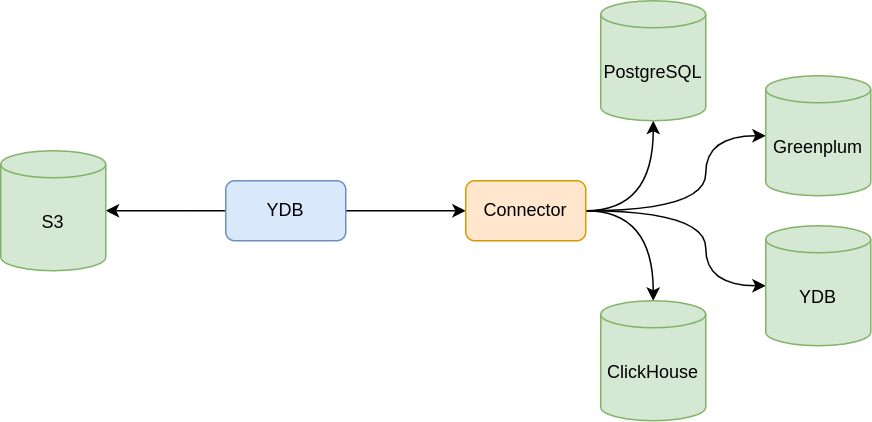
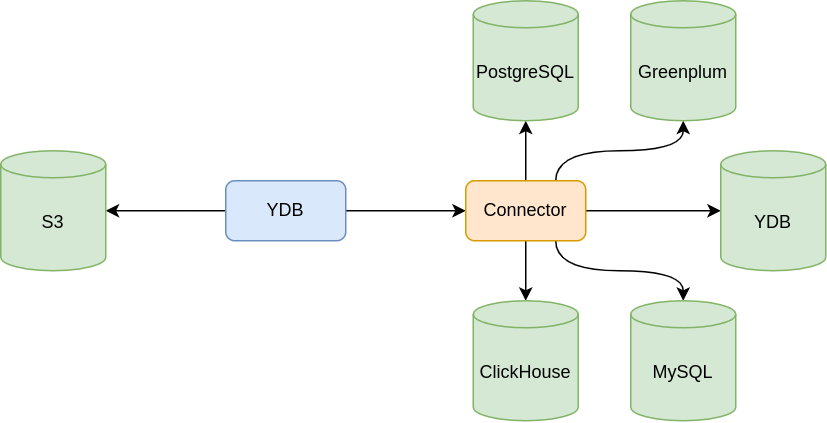
YDB FQ: docs for MySQL as an external datasource (#6737)

diff --git a/ydb/docs/ru/core/concepts/federated_query/mysql.md b/ydb/docs/ru/core/concepts/federated_query/mysql.md
@@ -1,0 +1,81 @@
+# Работа с базами данных MySQL
+
+В этом разделе описана основная информация про работу с внешней базой данных [MySQL](https://www.mysql.com/).
+
+Для работы с внешней базой данных MySQL необходимо выполнить следующие шаги:
+1. Создать [секрет](../datamodel/secrets.md), содержащий пароль для подключения к базе данных.
+    ```sql
+    CREATE OBJECT mysql_datasource_user_password (TYPE SECRET) WITH (value = "<password>");
+    ```
+1. Создать [внешний источник данных](../datamodel/external_data_source.md), описывающий определённую базу данных MySQL. Параметр `LOCATION` содержит сетевой адрес экземпляра MySQL, к которому осуществляется подключение. В `DATABASE_NAME` указывается имя базы данных (например, `mysql`). Для аутентификации во внешнюю базу используются значения параметров `LOGIN` и `PASSWORD_SECRET_NAME`. Включить шифрование соединений к внешней базе данных можно с помощью параметра `USE_TLS="TRUE"`.
+    ```sql
+    CREATE EXTERNAL DATA SOURCE mysql_datasource WITH (
+        SOURCE_TYPE="MySQL",
+        LOCATION="<host>:<port>",
+        DATABASE_NAME="<database>",
+        AUTH_METHOD="BASIC",
+        LOGIN="user",
+        PASSWORD_SECRET_NAME="mysql_datasource_user_password",
+        USE_TLS="TRUE"
+    );
+    ```
+1. {% include [!](_includes/connector_deployment.md) %}
+1. [Выполнить запрос](#query) к базе данных.
+
+## Синтаксис запросов { #query }
+Для работы с MySQL используется следующая форма SQL-запроса:
+
+```sql
+SELECT * FROM mysql_datasource.<table_name>
+```
+
+где:
+- `mysql_datasource` - идентификатор внешнего источника данных;
+- `<table_name>` - имя таблицы внутри внешнего источника данных.
+
+## Ограничения
+
+При работе с кластерами MySQL существует ряд ограничений:
+
+1. {% include [!](_includes/supported_requests.md) %}
+1. {% include [!](_includes/datetime_limits.md) %}
+1. {% include [!](_includes/predicate_pushdown.md) %}
+
+## Поддерживаемые типы данных
+
+В базе данных MySQL признак опциональности значений колонки (разрешено или запрещено колонке содержать значения `NULL`) не является частью системы типов данных. Ограничение (constraint) `NOT NULL` для любой колонки любой таблицы хранится в виде значения столбца `IS_NULLABLE` системной таблицы [INFORMATION_SCHEMA.COLUMNS](https://dev.mysql.com/doc/refman/8.4/en/information-schema-columns-table.html), то есть на уровне метаданных таблицы. Следовательно, все базовые типы MySQL по умолчанию могут содержать значения `NULL`, и в системе типов {{ ydb-full-name }} они должны отображаться в [опциональные](https://ydb.tech/docs/ru/yql/reference/types/optional) типы.
+
+Ниже приведена таблица соответствия типов MySQL и {{ ydb-short-name }}. Все остальные типы данных, за исключением перечисленных, не поддерживаются.
+
+|Тип данных MySQL|Тип данных {{ ydb-full-name }}|Примечания|
+|---|----|------|
+|`bool`|`Optional<Bool>`||
+|`tinyint`|`Optional<Int8>`||
+|`tinyint unsigned`|`Optional<Uint8>`||
+|`smallint`|`Optional<Int16>`||
+|`smallint unsigned`|`Optional<Uint16>`||
+|`mediumint`|`Optional<Int32>`||
+|`mediumint unsigned`|`Optional<Uint32>`||
+|`int`|`Optional<Int32>`||
+|`int unsigned`|`Optional<Uint32>`||
+|`bigint`|`Optional<Int64>`||
+|`bigint unsigned`|`Optional<Uint64>`||
+|`float`|`Optional<Float>`||
+|`real`|`Optional<Float>`||
+|`double`|`Optional<Double>`||
+|`date`|`Optional<Date>`|Допустимый диапазон дат с 1970-01-01 и до 2105-12-31. При выходе значения за границы диапазона возвращается `NULL`.|
+|`datetime`|`Optional<Timestamp>`|Допустимый диапазон времени с 1970-01-01 00:00:00 и до 2105-12-31 23:59:59. При выходе значения за границы диапазона возвращается значение `NULL`.|
+|`timestamp`|`Optional<Timestamp>`|Допустимый диапазон времени с 1970-01-01 00:00:00 и до 2105-12-31 23:59:59. При выходе значения за границы диапазона возвращается значение `NULL`.|
+|`tinyblob`|`Optional<String>`||
+|`blob`|`Optional<String>`||
+|`mediumblob`|`Optional<String>`||
+|`longblob`|`Optional<String>`||
+|`tinytext`|`Optional<String>`||
+|`text`|`Optional<String>`||
+|`mediumtext`|`Optional<String>`||
+|`longtext`|`Optional<String>`||
+|`char`|`Optional<Utf8>`||
+|`varchar`|`Optional<Utf8>`||
+|`binary`|`Optional<String>`||
+|`varbinary`|`Optional<String>`||
+|`json`|`Optional<Json>`||

diff --git a/ydb/docs/en/core/concepts/federated_query/mysql.md b/ydb/docs/en/core/concepts/federated_query/mysql.md
@@ -1,0 +1,81 @@
+# Working with MySQL databases
+
+This section provides basic information about working with an external [MySQL](https://www.mysql.com/) databases.
+
+To work with an external MySQL database, you need to follow these steps:
+1. Create a [secret](../datamodel/secrets.md) containing the password for connecting to the database.
+    ```sql
+    CREATE OBJECT mysql_datasource_user_password (TYPE SECRET) WITH (value = "<password>");
+    ```
+1. Create an [external data source](../datamodel/external_data_source.md) that describes a specific MySQL database. The `LOCATION` parameter contains the network address of the MySQL instance to connect to. The `DATABASE_NAME` specifies the database name (for example, `mysql`). The `LOGIN` and `PASSWORD_SECRET_NAME` parameters are used for authentication to the external database. You can enable encryption for connections to the external database using the `USE_TLS="TRUE"` parameter.
+    ```sql
+    CREATE EXTERNAL DATA SOURCE mysql_datasource WITH (
+        SOURCE_TYPE="MySQL",
+        LOCATION="<host>:<port>",
+        DATABASE_NAME="<database>",
+        AUTH_METHOD="BASIC",
+        LOGIN="user",
+        PASSWORD_SECRET_NAME="mysql_datasource_user_password",
+        USE_TLS="TRUE"
+    );
+    ```
+1. {% include [!](_includes/connector_deployment.md) %}
+1. [Execute a query](#query) to the database.
+
+## Query syntax { #query }
+The following SQL query format is used to work with MySQL:
+
+```sql
+SELECT * FROM mysql_datasource.<table_name>
+```
+
+where:
+- `mysql_datasource` - the external data source identifier;
+- `<table_name> - the table name within the external data source.
+
+## Limitations
+
+When working with MySQL clusters, there are a number of limitations:
+
+1. {% include [!](_includes/supported_requests.md) %}
+2. {% include [!](_includes/datetime_limits.md) %}
+3. {% include [!](_includes/predicate_pushdown.md) %}
+
+## Supported data types
+
+In the MySQL database, the optionality of column values (whether the column can contain `NULL` values or not) is not a part of the data type system. The `NOT NULL` constraint for any column of any table is stored within the `IS_NULLABLE` column the [INFORMATION_SCHEMA.COLUMNS](https://dev.mysql.com/doc/refman/8.4/en/information-schema-columns-table.html) system table, i.e., at the table metadata level. Therefore, all basic MySQL types can contain `NULL` values by default, and in the {{ ydb-full-name }} type system they should be mapped to [optional](https://ydb.tech/docs/ru/yql/reference/types/optional).
+
+Below is a correspondence table between MySQL types and {{ ydb-short-name }} types. All other data types, except those listed, are not supported.
+
+| MySQL Data Type | {{ ydb-full-name }} Data Type | Notes |
+|---|----|------|
+|`bool`|`Optional<Bool>`||
+|`tinyint`|`Optional<Int8>`||
+|`tinyint unsigned`|`Optional<Uint8>`||
+|`smallint`|`Optional<Int16>`||
+|`smallint unsigned`|`Optional<Uint16>`||
+|`mediumint`|`Optional<Int32>`||
+|`mediumint unsigned`|`Optional<Uint32>`||
+|`int`|`Optional<Int32>`||
+|`int unsigned`|`Optional<Uint32>`||
+|`bigint`|`Optional<Int64>`||
+|`bigint unsigned`|`Optional<Uint64>`||
+|`float`|`Optional<Float>`||
+|`real`|`Optional<Float>`||
+|`double`|`Optional<Double>`||
+|`date`|`Optional<Date>`|Valid date range from 1970-01-01 to 2105-12-31. Values outside this range return `NULL`.|
+|`datetime`| `Optional<Timestamp>` | Valid time range from 1970-01-01 00:00:00 to 2105-12-31 23:59:59. Values outside this range return `NULL`.|
+|`timestamp`| `Optional<Timestamp>` | Valid time range from 1970-01-01 00:00:00 to 2105-12-31 23:59:59. Values outside this range return `NULL`.|
+|`tinyblob`|`Optional<String>`||
+|`blob`|`Optional<String>`||
+|`mediumblob`|`Optional<String>`||
+|`longblob`|`Optional<String>`||
+|`tinytext`|`Optional<String>`||
+|`text`|`Optional<String>`||
+|`mediumtext`|`Optional<String>`||
+|`longtext`|`Optional<String>`||
+|`char`|`Optional<Utf8>`||
+|`varchar`|`Optional<Utf8>`||
+|`binary`|`Optional<String>`||
+|`varbinary`|`Optional<String>`||
+|`json`|`Optional<Json>`||

diff --git a/ydb/docs/en/core/concepts/federated_query/architecture.md b/ydb/docs/en/core/concepts/federated_query/architecture.md
@@ -30,8 +30,9 @@ Users can deploy [one of the ready-made connectors](../../deploy/manual/connecto
 
 | Source | Support |
 |--------|---------|
-| [S3](https://aws.amazon.com/ru/s3/) | Built into `ydbd` |
 | [ClickHouse](https://clickhouse.com/) | Via connector [fq-connector-go](../../deploy/manual/connector.md#fq-connector-go) |
-| [PostgreSQL](https://www.postgresql.org/) | Via connector [fq-connector-go](../../deploy/manual/connector.md#fq-connector-go) |
-| [{{ydb-short-name}}](https://ydb.tech/) | Via connector [fq-connector-go](../../deploy/manual/connector.md#fq-connector-go) |
 | [Greenplum](https://www.greenplum.org/) | Via connector [fq-connector-go](../../deploy/manual/connector.md#fq-connector-go) |
+| [MySQL](https://www.mysql.com/) | Via connector [fq-connector-go](../../deploy/manual/connector.md#fq-connector-go) |
+| [PostgreSQL](https://www.postgresql.org/) | Via connector [fq-connector-go](../../deploy/manual/connector.md#fq-connector-go) |
+| [S3](https://aws.amazon.com/ru/s3/) | Built into `ydbd` |
+| [{{ydb-short-name}}](https://ydb.tech/) | Via connector [fq-connector-go](../../deploy/manual/connector.md#fq-connector-go) |

diff --git a/ydb/docs/ru/core/concepts/federated_query/architecture.md b/ydb/docs/ru/core/concepts/federated_query/architecture.md
@@ -31,8 +31,9 @@
 
 | Источник | Поддержка |
 | -------- | --------- |
-| [S3](https://aws.amazon.com/ru/s3/) | Встроенная в `ydbd` |
 | [ClickHouse](https://clickhouse.com/) | Через коннектор [fq-connector-go](../../deploy/manual/connector.md#fq-connector-go) |
-| [PostgreSQL](https://www.postgresql.org/) | Через коннектор [fq-connector-go](../../deploy/manual/connector.md#fq-connector-go) |
 | [Greenplum](https://greenplum.org/) | Через коннектор [fq-connector-go](../../deploy/manual/connector.md#fq-connector-go) |
+| [MySQL](https://www.mysql.org/) | Через коннектор [fq-connector-go](../../deploy/manual/connector.md#fq-connector-go) |
+| [PostgreSQL](https://www.postgresql.org/) | Через коннектор [fq-connector-go](../../deploy/manual/connector.md#fq-connector-go) |
+| [S3](https://aws.amazon.com/ru/s3/) | Встроенная в `ydbd` |
 | [{{ydb-short-name}}](https://ydb.tech/) | Через коннектор [fq-connector-go](../../deploy/manual/connector.md#fq-connector-go) |

diff --git a/ydb/docs/ru/core/concepts/federated_query/index.md b/ydb/docs/ru/core/concepts/federated_query/index.md
@@ -12,7 +12,8 @@
 
 Вы сможете узнать о внутреннем устройстве системы обработки федеративных запросов в разделе об [архитектуре](./architecture.md). Подробная информация про работу с различными источниками данных приведена в соответствующих разделах:
 - [ClickHouse](clickhouse.md)
-- [PostgreSQL](postgresql.md)
-- [{{ ydb-short-name }}](ydb.md)
-- [S3](s3/external_table.md)
 - [Greenplum](greenplum.md)
+- [MySQL](mysql.md)
+- [PostgreSQL](postgresql.md)
+- [S3](s3/external_table.md)
+- [{{ ydb-short-name }}](ydb.md)

diff --git a/ydb/docs/en/core/concepts/federated_query/index.md b/ydb/docs/en/core/concepts/federated_query/index.md
@@ -12,7 +12,8 @@ To work with data stored in external DBMSs, it is sufficient to create an [exter
 
 You can learn about the internals of the federated query processing system in the [architecture](./architecture.md) section. Detailed information on working with various data sources is provided in the corresponding sections:
 - [ClickHouse](clickhouse.md)
-- [PostgreSQL](postgresql.md)
-- [{{ ydb-short-name }}](ydb.md)
-- [S3](s3/external_table.md)
 - [Greenplum](greenplum.md)
+- [MySQL](mysql.md)
+- [PostgreSQL](postgresql.md)
+- [S3](s3/external_table.md)
+- [{{ ydb-short-name }}](ydb.md)
